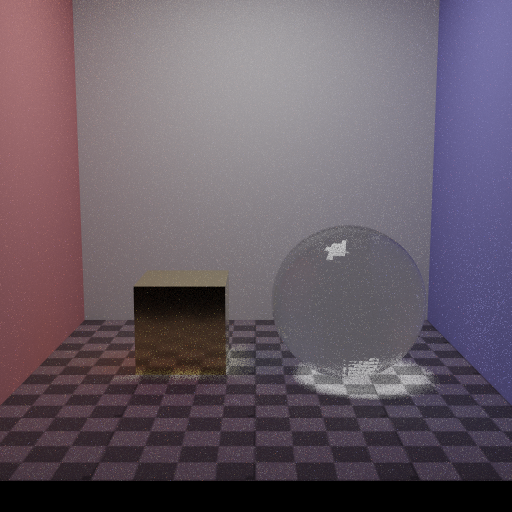
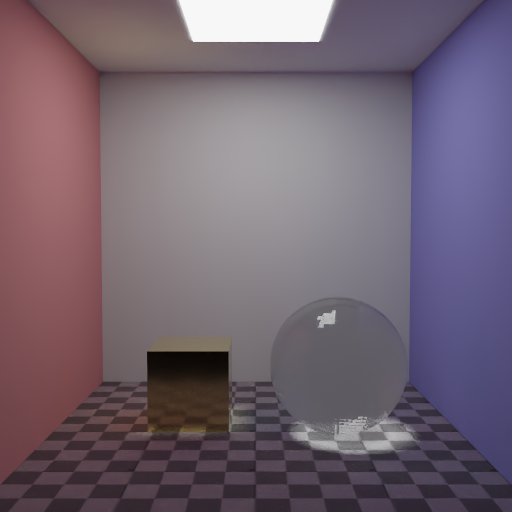
feat: adjust camera to show ceiling light
- Changed target from (0, 0.8, 0) to (0, 1.3, 0)

- Increased FOV from 40 to 45 degrees

- Now ceiling light is visible matching reference image

- Denoiser enabled for smoother result

Made-with: Cursor

diff --git a/libWR/test/cornell_box_var_test.cpp b/libWR/test/cornell_box_var_test.cpp
@@ -148,9 +148,9 @@ int main() {
     wr::Renderer* renderer = context.createRenderer();
     wr::Camera camera;
     camera.position = Vec3(0.0f, 1.5f, 4.5f);  // Higher and further back
-    camera.target = Vec3(0.0f, 0.8f, 0.0f);    // Look slightly down
+    camera.target = Vec3(0.0f, 1.3f, 0.0f);    // Look higher to see ceiling light
     camera.up = Vec3(0.0f, 1.0f, 0.0f);
-    camera.fovY = glm::radians(40.0f);         // Slightly narrower FOV
+    camera.fovY = glm::radians(45.0f);         // Wider FOV to see more of the ceiling
     camera.aspect = static_cast<float>(config.width) / config.height;
     
     std::vector<wr::Vec3> image(config.width * config.height);
